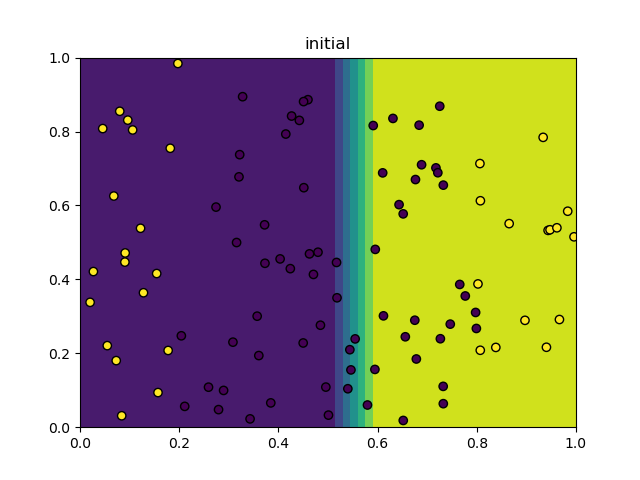
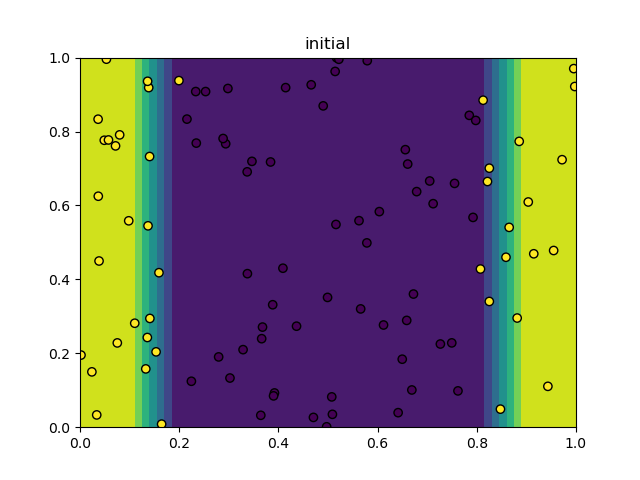
Module-0 finalizado

diff --git a/Module-0/project/grafico2.py b/Module-0/project/grafico2.py
@@ -1,10 +1,9 @@
 from datasets import Simple, Split, Xor
 N = 100
-Simple(N, vis=True).graph("initial")
 
 def classify(pt):
     "Classify based on x position"
-    if pt[0] > 0.5:
+    if pt[0] > 0.8 or pt[0] < 0.2:
         return 1.0
     else:
         return 0.0

diff --git a/Module-0/project/grafico3.py b/Module-0/project/grafico3.py
@@ -1,6 +1,5 @@
 from datasets import Simple, Split, Xor
 N = 100
-Simple(N, vis=True).graph("initial")
 
 def xor_classify(pt):
     if pt[0] < 0.5 and pt[1] < 0.5 or pt[0] > 0.5 and pt[1] > 0.5:

diff --git a/Module-0/project/grafico1.py b/Module-0/project/grafico1.py
@@ -1,6 +1,5 @@
 from datasets import Simple, Split, Xor
 N = 100
-Simple(N, vis=True).graph("initial")
 
 def simple_classify(pt):
     return 0.0 if pt[0] > 0.5 else 1.0

diff --git a/Module-0/README.md b/Module-0/README.md
@@ -11,6 +11,8 @@
 ```
 python run_tests.py
 ```
+Tarea 05
+Resultado de la clasificación
 ![](project/grafico1.png)
 ![](project/grafico2.png)
 ![](project/grafico3.png)
